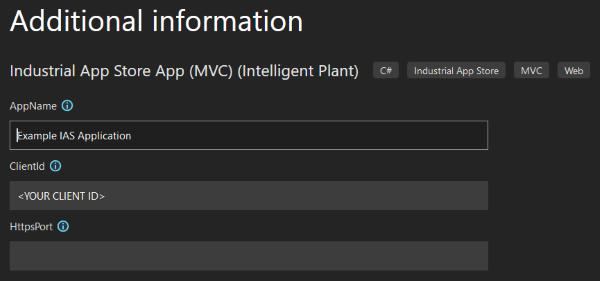
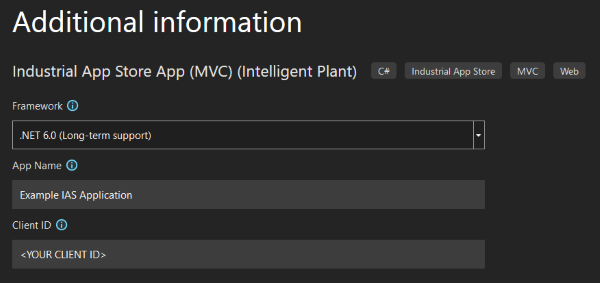
Template improvements
- Add framework selection
- Ensure that publish profiles get correctly configured
- Remove HTTPS port selection and just generate one (simplifies VS integration)

diff --git a/src/IntelligentPlant.IndustrialAppStore.Templates/README.md b/src/IntelligentPlant.IndustrialAppStore.Templates/README.md
@@ -1,8 +1,8 @@
 # IntelligentPlant.IndustrialAppStore.Templates
 
-This project defines [Industrial App Store](https://appstore.intelligentplant.com) templates for Visual Studio 2022 and the [dotnet new](https://docs.microsoft.com/en-us/dotnet/core/tools/dotnet-new) command.
+This project defines [Industrial App Store](https://appstore.intelligentplant.com) templates for Visual Studio 2022, Visual Studio 2019, and the [dotnet new](https://docs.microsoft.com/en-us/dotnet/core/tools/dotnet-new) command.
 
-> Unlike previous versions of Visual Studio, templates installed by `dotnet new` command are also visible in Visual Studio 2022.
+> Templates installed using the `dotnet new` command are also visible in Visual Studio 2022 and Visual Studio 2019 (v16.9 or later).
 
 
 # Installing Templates
@@ -32,7 +32,7 @@ dotnet new --install .\
 Note that, when installing the templates from source, the reference to the `IntelligentPlant.IndustrialAppStore.Authentication` NuGet package in projects generated using templates may use an incorrect version. You will have to update generated projects to use the correct package version, or replace the package reference with a project reference to the `IntelligentPlant.IndustrialAppStore.Authentication` project in this repository.
 
 
-# Creating an App using Visual Studio 2022
+# Creating an App using Visual Studio
 
 Before creating a new app, you should [create an app registration](https://appstore.intelligentplant.com/Developer/AddApplication) on the Industrial App Store. 
 
@@ -44,20 +44,20 @@ After selecting the template, you will be prompted to select a project location 
 
 ![Visual Studio 2022 template parameters window](./img/template_parameters.png)
 
+> Note that, unlike Visual Studio 2022, Visual Studio 2019 does not give you the option to configure the template parameters; your app will be created with the default values.
+
 The template will create a new ASP.NET Core MVC application that is pre-configured to use the Industrial App Store for authentication. The `README.md` file for the new project provides additional instructions for completing the setup.
 
 
 # Creating an App using `dotnet new`
 
-If you are not using Visual Studio 2022, you can create a new C# project using the `dotnet new` command from the command line as follows:
+If you are not using Visual Studio, you can create a new C# project using the `dotnet new` command from the command line as follows:
 
 ```
 mkdir MyNewApp.Web
 cd MyNewApp.Web
 dotnet new iasmvc
 ```
-
-> Note that projects created using the template target .NET 6. If you are using a version of Visual Studio earlier than 2022 (e.g. Visual Studio 2019), you will have to modify the `<TargetFramework>` property in the project file to target .NET 5 or .NET Core 3.1, as versions of Visual Studio earlier than 2022 cannot build .NET 6 projects. 
 
 
 ## Specifying Project Parameters
@@ -73,9 +73,9 @@ dotnet new iasmvc --app-name "My First App" --client-id "abcdef0123456789"
 ```
 
 ```
-# Specifies the local HTTPS port to use instead of randomly choosing a port.
+# Creates a project that targets .NET 6 (not compatible with Visual Studio 2019!)
 
-dotnet new iasmvc --port 43789
+dotnet new iasmvc --Framework net6.0
 ```
 
 Note that it is not possible to specify the client secret when creating the project; the `README.md` file created by the template in the project folder contains instructions for setting the client secret.
